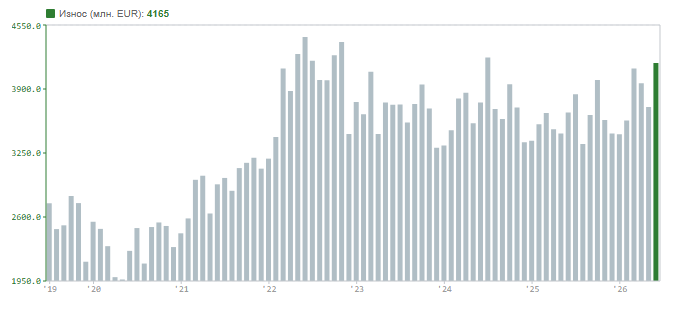
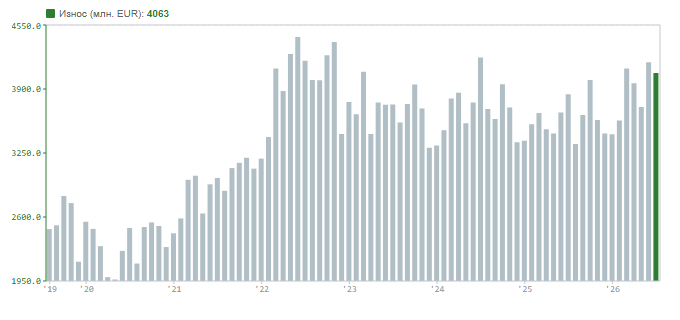
Чартбук: автоматична актуализация
1 от 16 показателя с нов период:

  Външна търговия  Jun '26    → Jul '26

Генерирано от refresh_chartbook.py на 2026-09-13 11:32.

diff --git a/newsletters/2026-W37/index.html b/newsletters/2026-W37/index.html
@@ -1,0 +1,61 @@
+<!DOCTYPE html>
+<html lang="bg"><head><meta charset="utf-8"><meta name="viewport" content="width=device-width,initial-scale=1"><title>Basepoint Doodles — 2026-W37</title><link href="https://fonts.googleapis.com/css2?family=Nunito:wght@400;700;900&family=Caveat:wght@700&display=swap" rel="stylesheet"><style>
+    body { margin:0; padding:0; background:#E8E8E8; }
+    .wrapper { max-width:700px; margin:24px auto; background:#FFFFFF;
+                border:1px solid #D0D0D0; border-radius:4px; overflow:hidden;
+                font-family:Nunito,'Segoe UI',Arial,sans-serif; color:#1C1C1C; }
+    .pad { padding:24px 28px; }
+    .brand { font-size:26px; font-weight:900; color:#1B2E5E;
+              letter-spacing:-0.5px; }
+    .brand .d { font-family:Caveat,cursive; font-weight:700; color:#CC2B2B;
+                 font-size:32px; }
+    .kicker { font-size:11px; font-weight:700; color:#777777;
+               letter-spacing:1.5px; margin-top:2px; }
+    .lede { font-size:15px; line-height:1.6; color:#444; margin:14px 0 0; }
+    .rule { height:3px; background:#1C1C1C; margin:0; }
+    .warn { background:#FDF3F3; border-left:4px solid #CC2B2B;
+             padding:12px 16px; font-size:13px; color:#7a2020; }
+    .idx { background:#F8F8F8; border-top:1px solid #D0D0D0;
+            border-bottom:1px solid #D0D0D0; padding:16px 28px; }
+    .idx-t { font-size:11px; font-weight:700; color:#777777;
+              letter-spacing:1.2px; margin-bottom:8px; }
+    .idx a { color:#1B2E5E; text-decoration:none; font-weight:700;
+              font-size:14px; }
+    .idx span { color:#BBBBBB; }
+    h2 { font-size:19px; font-weight:900; color:#1B2E5E; margin:0 0 4px;
+          padding-bottom:6px; border-bottom:2px solid #1B2E5E; }
+    .sec { padding:24px 28px 8px; }
+    .item { margin:0 0 26px; }
+    .cap { font-size:15px; line-height:1.55; margin:0 0 10px; color:#1C1C1C; }
+    .num { color:#CC2B2B; font-weight:900; }
+    .chart { display:block; width:100%; max-width:680px; height:auto;
+              border:1px solid #D0D0D0; border-radius:3px; }
+    .src { font-family:'Courier New',monospace; font-size:10px; color:#BBBBBB;
+            margin:6px 0 0; }
+    .back { font-size:11px; }
+    .back a { color:#777777; text-decoration:none; }
+    .rev { background:#F8F8F8; border-top:1px solid #D0D0D0;
+            padding:20px 28px 8px; }
+    .rev-item { margin:0 0 22px; }
+    .rev-item .cap { font-size:14px; color:#444; }
+    .rev-item .num { color:#777777; font-weight:700; }
+    .foot { padding:20px 28px 26px; border-top:1px solid #D0D0D0;
+             font-size:11px; color:#BBBBBB; line-height:1.7; }
+    .foot a { color:#777777; }
+    </style></head><body>
+<div style="background:#E8E8E8;padding:1px 0;">
+<div class="wrapper">
+<div class="pad">
+<div class="brand">Basepoint<span class="d">Doodles</span></div>
+<div class="kicker">СЕДМИЧЕН МАКРО ОБЗОР</div>
+<p class="lede"><b>13 септември 2026</b> — 0 графики с нови данни от 1970-01-01 насам.</p>
+</div>
+<div class="rule"></div>
+<div class="warn">Автоматичната актуализация на данните тази седмица не завърши успешно. Възможно е част от графиките да показват по-стари данни от обичайното.</div>
+<div class="sec"><p class="cap">Тази седмица нито един показател в чартбука не получи нови данни. Следващият брой излиза в петък.</p></div>
+<div class="foot">
+Графиките се обновяват автоматично на <a href="https://bpdoodles.com/cockpit/">bpdoodles.com/cockpit</a>. Данните са от Евростат, НСИ, БНБ и АЗ.<br>
+Брой 2026-W37 · генериран автоматично на 2026-09-13 11:23 ч.
+</div>
+</div></div>
+</body></html>

diff --git a/newsletters/index.html b/newsletters/index.html
@@ -1,0 +1,31 @@
+<!DOCTYPE html>
+<html lang="bg"><head><meta charset="utf-8"><meta name="viewport" content="width=device-width,initial-scale=1"><title>Basepoint Doodles — Архив</title><link href="https://fonts.googleapis.com/css2?family=Nunito:wght@400;700;900&family=Caveat:wght@700&display=swap" rel="stylesheet"><style>
+    body { margin:0; background:#E8E8E8;
+            font-family:Nunito,'Segoe UI',Arial,sans-serif; color:#1C1C1C; }
+    .wrapper { max-width:700px; margin:24px auto; background:#FFFFFF;
+                border:1px solid #D0D0D0; border-radius:4px; }
+    .pad { padding:28px; }
+    .brand { font-size:26px; font-weight:900; color:#1B2E5E; }
+    .brand .d { font-family:Caveat,cursive; color:#CC2B2B; font-size:32px; }
+    .kicker { font-size:11px; font-weight:700; color:#777777;
+               letter-spacing:1.5px; margin:2px 0 16px; }
+    .lede { font-size:14px; line-height:1.6; color:#444; }
+    .lede a { color:#1B2E5E; font-weight:700; text-decoration:none; }
+    .eds { list-style:none; padding:0; margin:20px 0; }
+    .eds li { padding:10px 0; border-bottom:1px solid #D0D0D0;
+               display:flex; justify-content:space-between; }
+    .eds a { color:#1B2E5E; font-weight:700; text-decoration:none;
+              font-size:15px; }
+    .meta { font-family:'Courier New',monospace; font-size:11px;
+             color:#BBBBBB; }
+    </style></head><body>
+<div class="wrapper"><div class="pad">
+<div class="brand">Basepoint<span class="d">Doodles</span></div>
+<div class="kicker">АРХИВ НА СЕДМИЧНИЯ ОБЗОР</div>
+<p class="lede">Всеки петък: графиките от чартбука, които получиха нови данни
+през седмицата. Графиките във всеки брой са замразени към датата на
+изпращане.</p>
+<ul class="eds"><li><a href="2026-W37/">2026-W37</a><span class="meta">2026-09-13 · 0 графики</span></li></ul>
+<p class="lede"><a href="https://bpdoodles.com/cockpit/">Към чартбука →</a></p>
+</div></div>
+</body></html>
